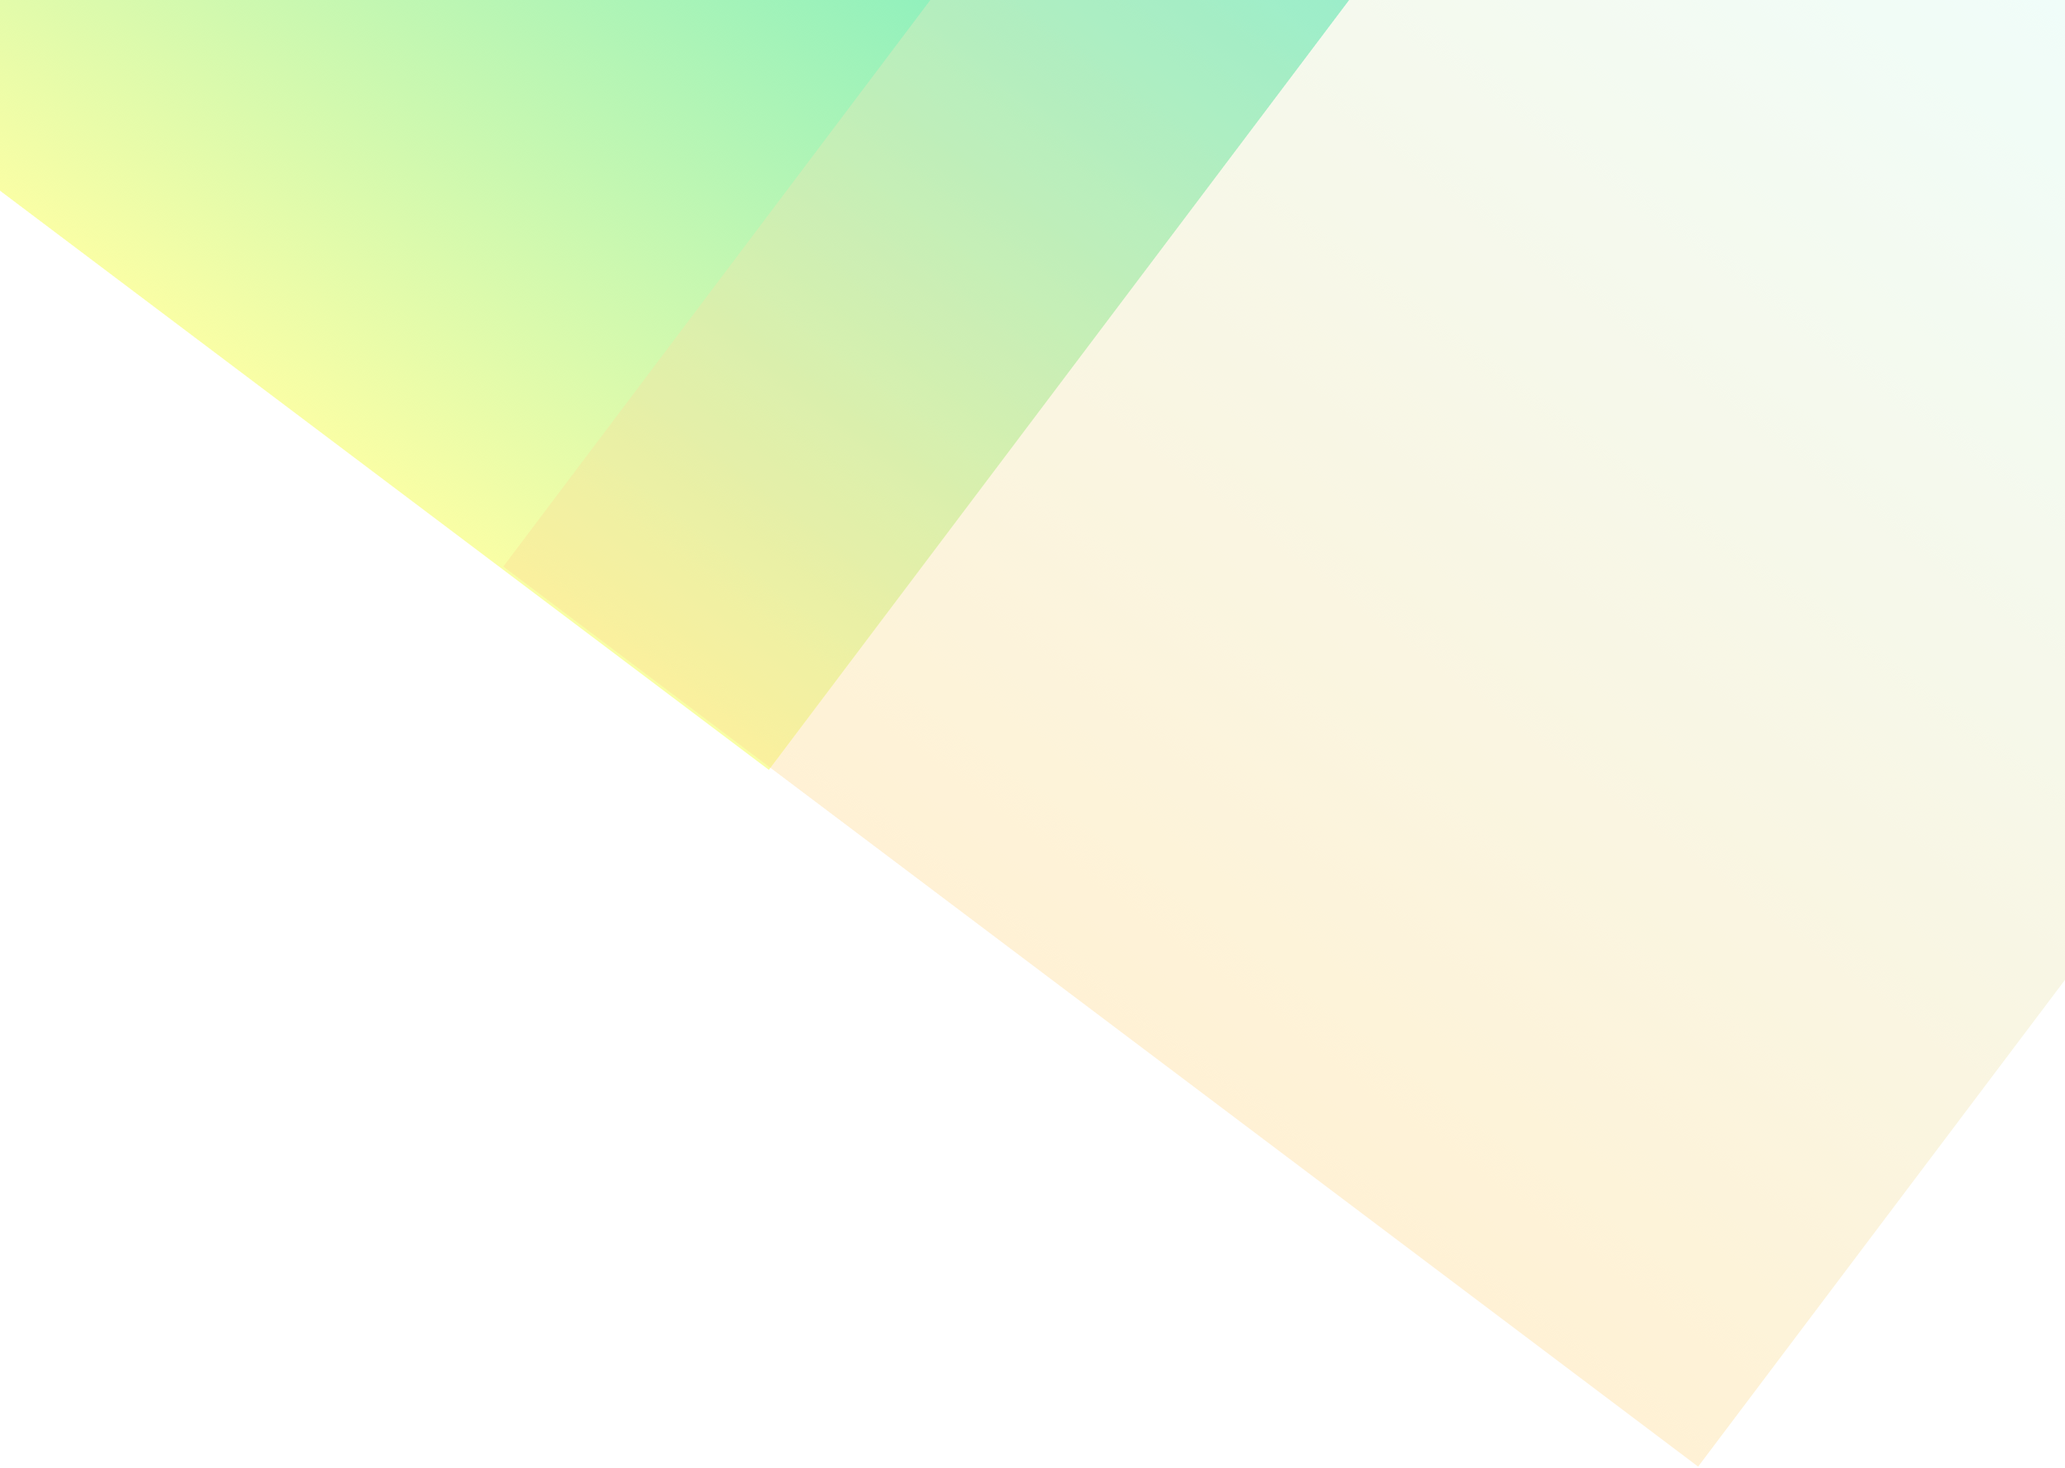
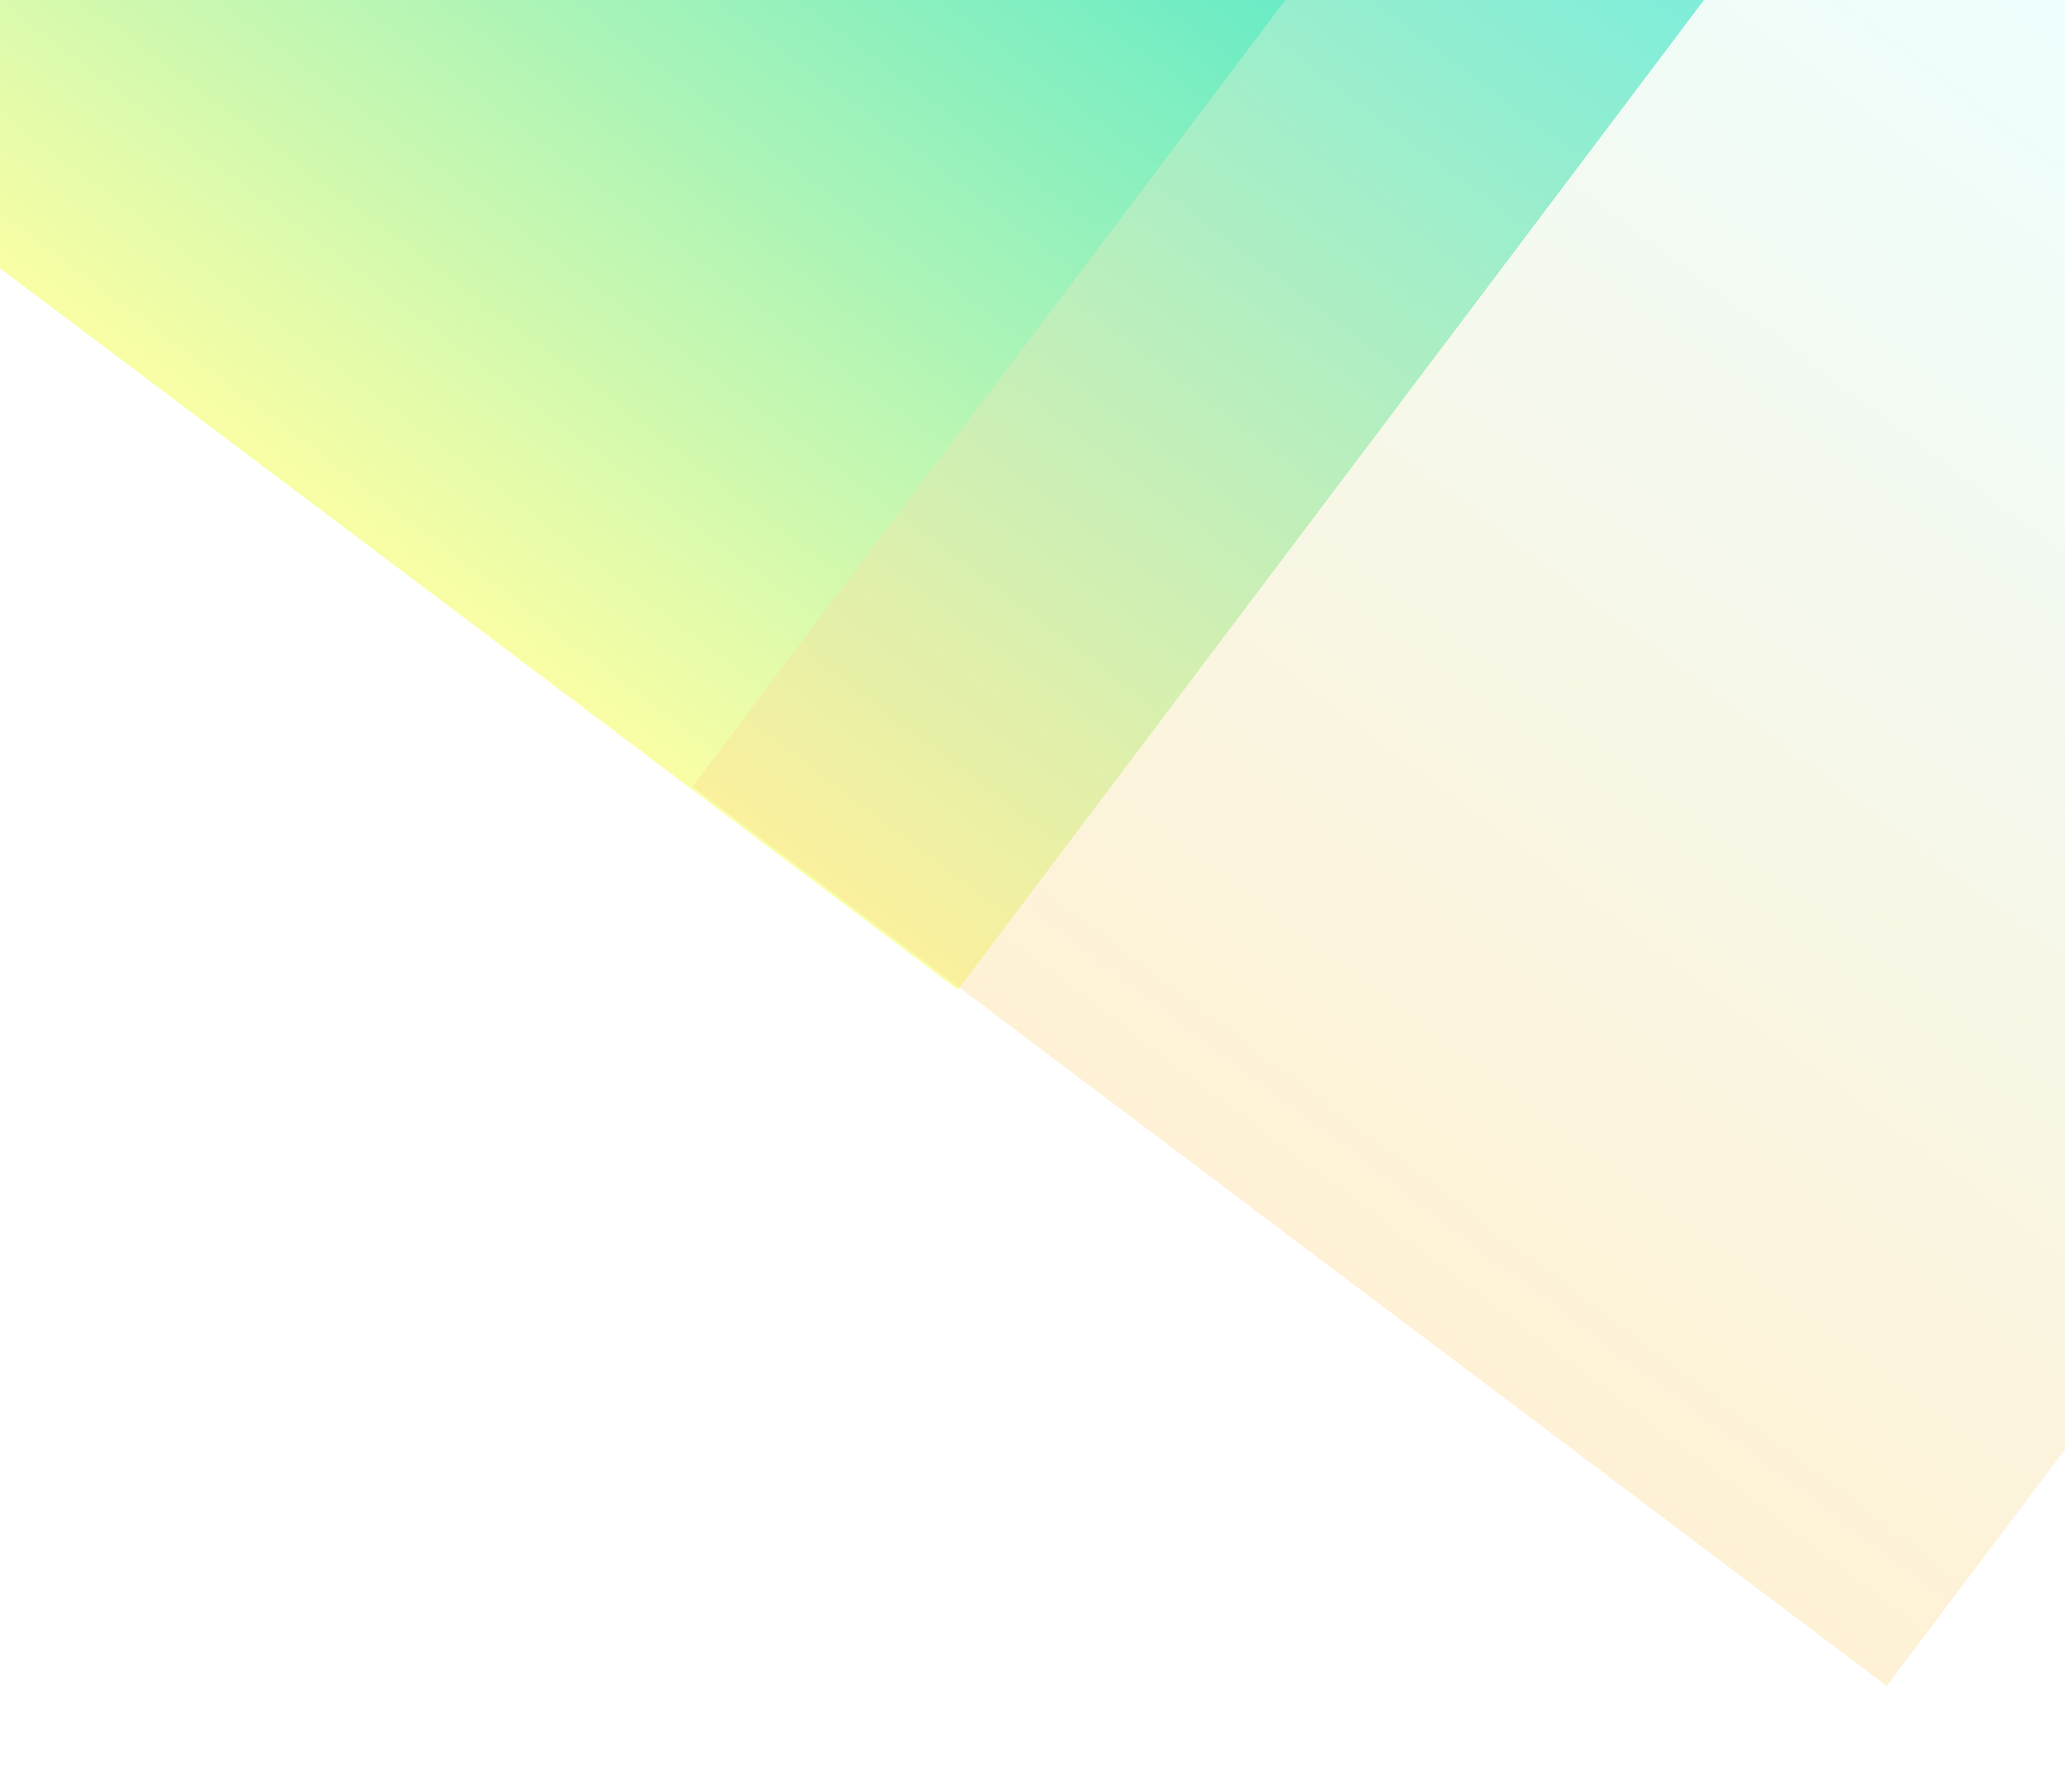
fix(Navbar): fix active noactive text color

Changed region(s): [[0.1562, 0.0, 1.0, 1.0], [0.0, 0.125, 0.0938, 0.2188]]

diff --git a/src/js/components/general/Banner.jsx b/src/js/components/general/Banner.jsx
@@ -45,12 +45,10 @@ export default CSSModules(class extends Component {
         return (
             <div className="banner" onScroll={() => this.handleScroll()}>
                 <div id='hero'>
-                    <div className='layer-bg layer' data-depth='2.0' data-type='parallax'></div>
-                    <div className='layer-1 layer' data-depth='1.00' data-type='parallax'></div>
+                    <div className='layer-bg layer' data-depth='1.00' data-type='parallax'></div>
+                    <div className='layer-1 layer' data-depth='2.00' data-type='parallax'></div>
                     <div className='layer-2 layer' data-depth='1.25' data-type='parallax'></div>
                     <div className='layer-3 layer' data-depth='1.75' data-type='parallax'></div>
-                    <div className='layer-overlay layer' data-depth='3.85' data-type='parallax'></div>
-                    <div className='layer-4 layer' data-depth='3.00' data-type='parallax'></div>
                 </div>
                 <div id='hero-mobile'>
                     <img src={require('static/mb-bg.png')}/>
